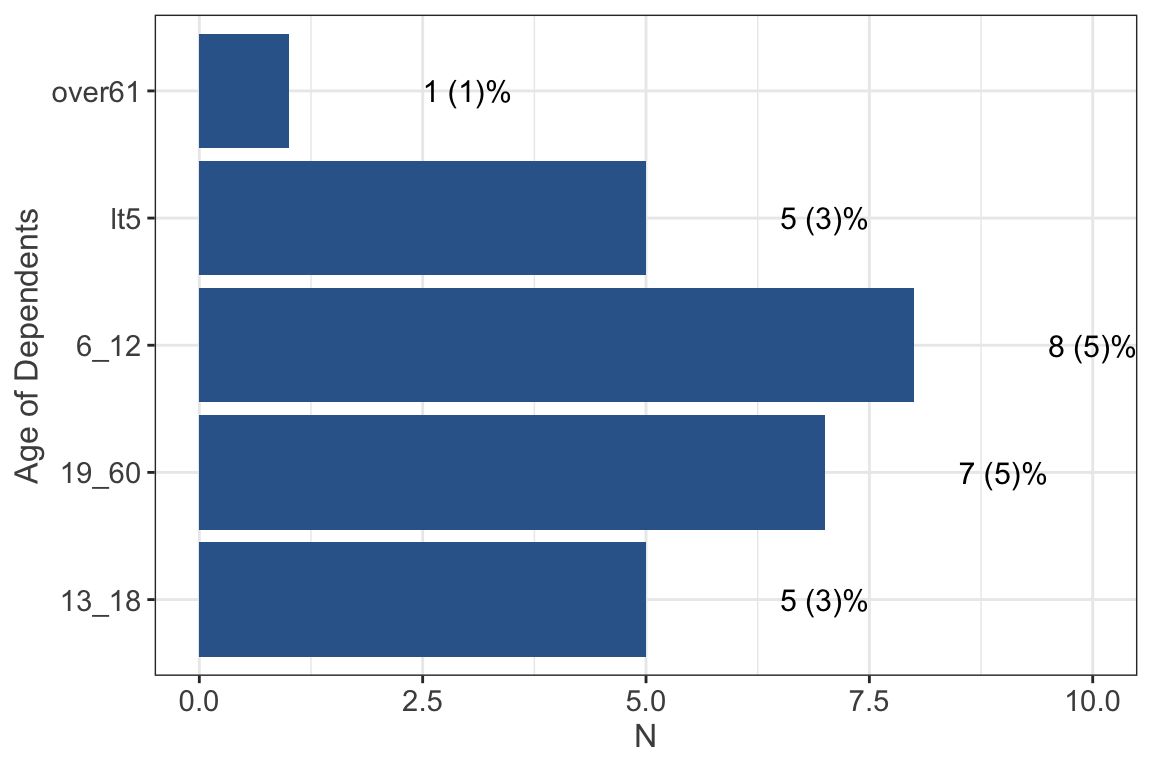
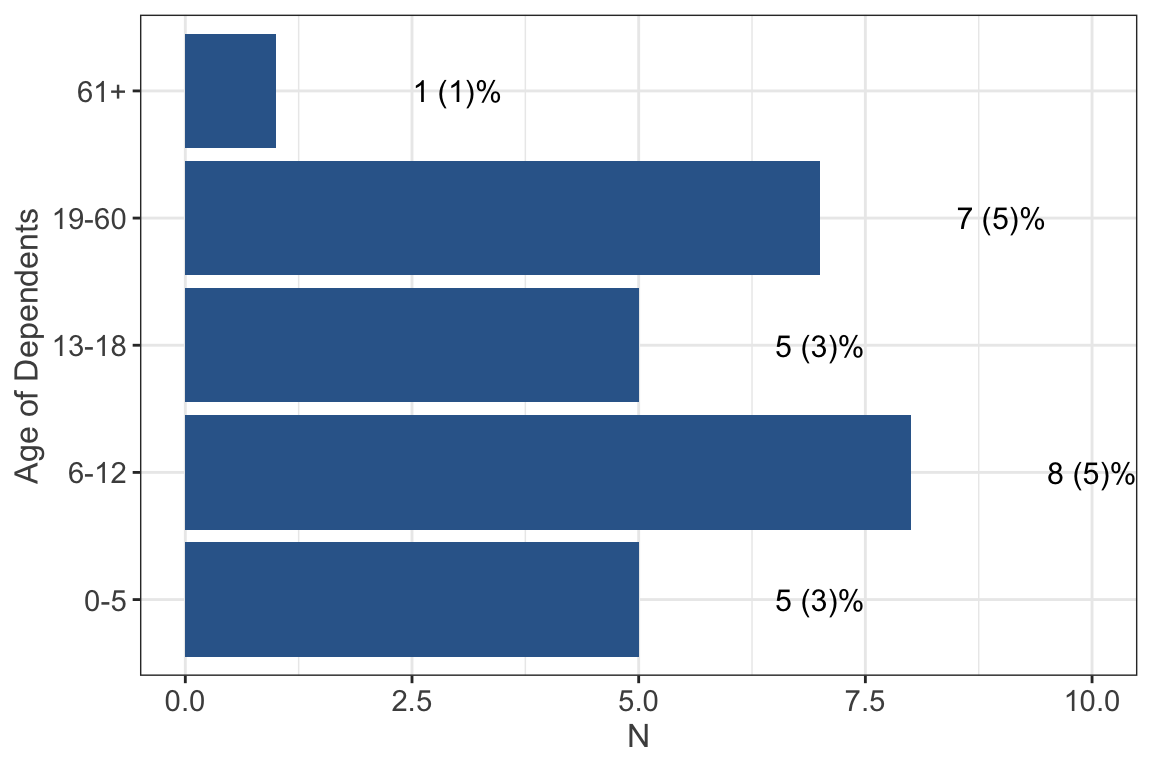
finishes up original Demog work

diff --git a/demographics.html b/demographics.html
@@ -416,13 +416,15 @@ div.tocify {
 <div id="what-isare-the-ages-of-your-dependents" class="section level3">
 <h3>What is/are the age(s) of your dependent(s)?</h3>
 <p><img src="demographics_files/figure-html/unnamed-chunk-11-1.png" width="576" style="display: block; margin: auto;" /></p>
+<p>About 5% (n = 8) of the total number of respondents say they have dependents that are between 6-12 years old, 5% (n = 7) say they have dependents that are between 19-60 years old, and only 1 person says they have dependents that are over 61 years old.</p>
 </div>
 </div>
 <div id="student-status" class="section level1">
 <h1>Student Status</h1>
-<div id="firstgen" class="section level3">
-<h3>firstgen</h3>
+<div id="are-you-a-first-generation-student" class="section level3">
+<h3>Are you a first generation student?</h3>
 <p><img src="demographics_files/figure-html/unnamed-chunk-12-1.png" width="576" style="display: block; margin: auto;" /></p>
+<p>The vast majority of respondents (94.7% n = 142) are first generation college students with only 8 (5.3%) not being fist generation students.</p>
 </div>
 <div id="what-is-your-major-at-csu-chico" class="section level3">
 <h3>What is your major at CSU, Chico?</h3>
@@ -1066,12 +1068,13 @@ undeclared or not decided
 </div>
 <div id="how-many-units-rounded-up-are-you-enrolled-in-for-the-current-semester-at-csu-chico" class="section level3">
 <h3>How many units (rounded up) are you enrolled in for the current semester at CSU Chico?</h3>
-<p>When looking at the graph above, the majority of students (30.2% n = 45) are enrolled in 15 units, the next highest count is 24.2% (n = 36) being enrolled in 12 units.</p>
+<p><img src="demographics_files/figure-html/unnamed-chunk-15-1.png" width="576" style="display: block; margin: auto;" /></p>
+<p>53.7% (n = 80) of students filling out this survey are enrolled in 13-15 units in the semester of the survey, a quarter of the students (24.2% n = 36) are enrolled in 12 units, and 20.8% (n = 31) are enrolled in 16 or more units.</p>
 </div>
 <div id="if-currently-enrolled-at-more-than-one-college-how-many-units-rounded-up-are-you-enrolled-in-for-the-current-semester-at-other-colleges-not-csu-chico" class="section level3">
 <h3>If currently enrolled at more than one college, how many units (rounded up) are you enrolled in for the current semester at other colleges (NOT CSU Chico)?</h3>
 <p><img src="demographics_files/figure-html/unnamed-chunk-16-1.png" width="576" style="display: block; margin: auto;" /></p>
-<p>Out of the students who said they are enrolled at more than one college, 25.0% (n = 2) reported that they are enrolled in 12 units outside of CSU Chico, 25.0% (n = 2) reported that they are enrolled in 13 units outside of CSU Chico, and 1 student (12.5%) each reported that they are taking 1, 3, 10, and 15 units outside of CSU Chico respectively.</p>
+<p>Out of the students who reported they are taking units outside of CSU Chico, about 37.5% (n = 3) are taking 13 or more units in a different college, 25.0% (n = 2) are taking either 1-3 units or 12 units respectively, and only 1 person (12.5%) is enrolled in 10 units outside of CSU Chico.</p>
 </div>
 </div>
 <div id="class-standing" class="section level1">
@@ -1093,6 +1096,140 @@ undeclared or not decided
 <h3>Have you taken a semester off since you began attending Chico State? If so, how many?</h3>
 <p><img src="demographics_files/figure-html/unnamed-chunk-18-1.png" width="576" style="display: block; margin: auto;" /></p>
 <p>92.7% (n = 139) of respondents reported that they have not taken a semester off since they began attending Chico State, 2.7% (n = 4) reported that they took 1 semester off, 2.0% (n = 3) reported that they took 2 semesters off, 2.0% (n = 3) reported that they took 3 semesters off, and lastly 0.7% (n = 1) reported that they took 4 semesters off.</p>
+</div>
+</div>
+<div id="student-identifiers" class="section level1">
+<h1>Student Identifiers</h1>
+<div id="i-receive-services-through-the-accessibility-resource-center-or-disability-support-services-center" class="section level3">
+<h3>I receive services through the Accessibility Resource Center or Disability Support Services Center</h3>
+<p><img src="demographics_files/figure-html/unnamed-chunk-19-1.png" width="576" style="display: block; margin: auto;" /></p>
+<p>The majority of the students in this survey (87.3% n = 131) report they do not receive services through the Accessibility Resource Center or Disability Support Services Center and 12.7% (n = 19) report they do.</p>
+</div>
+<div id="i-identify-as-aan" class="section level3">
+<h3>I identify as a(an)… ⭐</h3>
+<ul>
+<li>transfer student</li>
+<li>former foster youth/child</li>
+<li>an International student</li>
+<li>non-California resident (Not International)</li>
+<li>Upward Bound,Educational Talent Search,AVID, TRIO, or other college prep program alumni student</li>
+<li>EOP (Educational Opportunity Program) student</li>
+<li>REACH (Raising Educational Achievement in Collaborative Hubs) student</li>
+<li>ESL (English as a Second Language) student</li>
+<li>Veteran of military service</li>
+<li>Active duty military personnel</li>
+<li>student athlete</li>
+<li>DREAM (i.e. undocumented) student</li>
+<li>DACA (i.e. Deferred Action for Childhood Arrivals) student</li>
+</ul>
+<table>
+<tbody>
+<tr>
+<td style="text-align:left;">
+Transfer
+</td>
+<td style="text-align:left;">
+40/150 (26.7%)
+</td>
+</tr>
+<tr>
+<td style="text-align:left;">
+Foster
+</td>
+<td style="text-align:left;">
+7/150 (4.7%)
+</td>
+</tr>
+<tr>
+<td style="text-align:left;">
+International
+</td>
+<td style="text-align:left;">
+0/150 (0%)
+</td>
+</tr>
+<tr>
+<td style="text-align:left;">
+Non-Resident
+</td>
+<td style="text-align:left;">
+4/149 (2.7%)
+</td>
+</tr>
+<tr>
+<td style="text-align:left;">
+College Prep
+</td>
+<td style="text-align:left;">
+68/149 (45.6%)
+</td>
+</tr>
+<tr>
+<td style="text-align:left;">
+EOP
+</td>
+<td style="text-align:left;">
+110/148 (74.3%)
+</td>
+</tr>
+<tr>
+<td style="text-align:left;">
+REACH
+</td>
+<td style="text-align:left;">
+17/149 (11.4%)
+</td>
+</tr>
+<tr>
+<td style="text-align:left;">
+ESL
+</td>
+<td style="text-align:left;">
+33/145 (22.8%)
+</td>
+</tr>
+<tr>
+<td style="text-align:left;">
+Veteran
+</td>
+<td style="text-align:left;">
+0/150 (0%)
+</td>
+</tr>
+<tr>
+<td style="text-align:left;">
+Active Duty
+</td>
+<td style="text-align:left;">
+0/150 (0%)
+</td>
+</tr>
+<tr>
+<td style="text-align:left;">
+Student Athlete
+</td>
+<td style="text-align:left;">
+2/149 (1.3%)
+</td>
+</tr>
+<tr>
+<td style="text-align:left;">
+Dreamer
+</td>
+<td style="text-align:left;">
+8/150 (5.3%)
+</td>
+</tr>
+<tr>
+<td style="text-align:left;">
+DACA
+</td>
+<td style="text-align:left;">
+8/150 (5.3%)
+</td>
+</tr>
+</tbody>
+</table>
 </div>
 </div>
 
